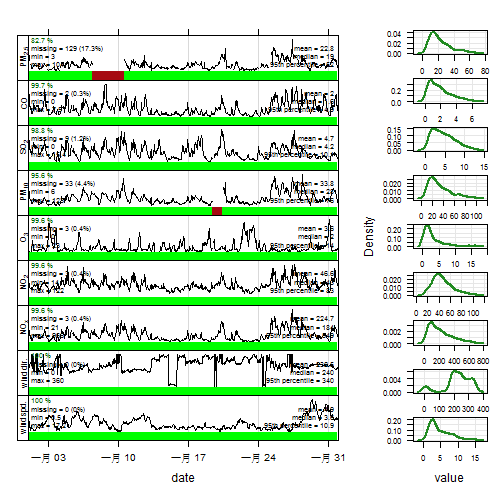
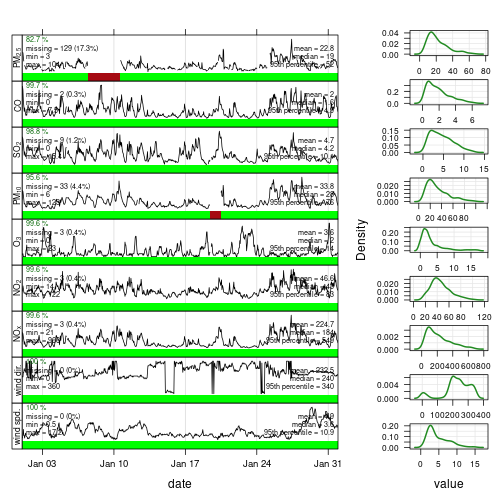
update linux version R script

diff --git a/taps_master/impGlabCsv.php b/taps_master/impGlabCsv.php
@@ -118,31 +118,63 @@ if (isset($_POST["import"])) {
 					$compound = $value;
 				}
 				if (strpos ($key,'MDL (ppbv)') !== false){
-					$mdl_ppbv = $value;
+				        if(empty($value)){
+						$mdl_ppbv = '0.00';
+					}else{
+						$mdl_ppbv = str_replace('<', '', $value);
+					}
 				}
-				if (strpos ($key,'MDL (?g/m3)') !== false){
-					$mdl_g_m3 = $value;
+				if (strpos ($key,'MDL (?g/m3)') !== false){					
+					if(empty($value)){
+						$mdl_g_m3 = '0.00';
+					}else{
+						$mdl_g_m3 = str_replace('<', '', $value);
+					}
 				}
 				if (strpos ($key,'PQL (ppbv)') !== false){
-					$pql_ppbv = $value;
+					if(empty($value)){
+						$pql_ppbv = '0.00';
+					}else{
+						$pql_ppbv = str_replace('<', '', $value);
+					}
 				}
 				if (strpos ($key,'PQL (?g/m3)') !== false){
-					$pql_g_m3 = $value;
+					if(empty($value)){
+						$pql_g_m3 = '0.00';
+					}else{
+						$pql_g_m3 = str_replace('<', '', $value);
+					}
 				}
 				if (strpos ($key,'CONC (ppbv)') !== false){
-					$conc_ppbv = $value;
+					if(empty($value)){
+						$conc_ppbv = '0.00';
+					}else{
+						$conc_ppbv = str_replace('<', '', $value);
+					}
 				}
 				if (strpos ($key,'CONC (?g/m3)') !== false){
-					$conc_g_m3 = $value;
+					if(empty($value)){
+						$conc_g_m3 = '0.00';
+					}else{
+						$conc_g_m3 = str_replace('<', '', $value);
+					}
 				}
 				if (strpos ($key,'SAMPMTHD') !== false){
 					$sampMthd = $value;
 				}
 				if (strpos ($key,'SAMPLER') !== false){
-					$sampler = $value;
+					if(empty($value)){
+						$sampler = '0';
+					}else{
+						$sampler = $value;
+					}
 				}
 				if (strpos ($key,'DETECTOR') !== false){
-					$detector = $value;
+					if(empty($value)){
+						$detector = '0';
+					}else{
+						$detector = $value;
+					}
 				}
 				if (strpos ($key,'REMFLG1') !== false){
 					$remflg1 = $value;
@@ -216,7 +248,7 @@ if (isset($_POST["import"])) {
 				//echo $in1;
 
 				$res=mysqli_query($dbc, $in1); /* or trigger_error("Query Failed! SQL: $in1 - Error: ".mysqli_error($dbc), E_USER_ERROR);*/
-//				print "in1 = ".$in1;
+				//print "in1 = ".$in1;
 							
 				if (! empty($res)) {
 					$r_in++;

diff --git a/taps_master/genSummaryPlot.php b/taps_master/genSummaryPlot.php
@@ -18,8 +18,27 @@ require_once "header2.php";
             $number = $_POST['number'];
 
             $var = rand();
-            exec('C:\\"Program Files"\\R\\R-4.2.0\\bin\\Rscript.exe C:\xampp\htdocs\taps\rscript\Rscript.R '.$number);
-            echo "<img src='temp.png?$var'> ";
+			try {
+				shell_exec('Rscript ../taps/rscript/Rscript.R '. $number);
+				echo "<img src='../taps/rscript/temp.png?$var'> ";	
+
+				exec('Rscript ../taps/rscript/Graph.R ');
+				echo "<img src='../taps/rscript/graph.png?$var'> ";
+				
+				exec('Rscript ../taps/rscript/Openair.R ');
+				echo "<img src='../taps/rscript/summaryPlot.png?$var'> ";
+
+				exec('Rscript ../taps/rscript/Openair.R ');
+				echo "<img src='../taps/rscript/summaryPlotFromCsv.png?$var'> ";
+
+				exec('Rscript ../taps/rscript/Openair.R ');
+				echo "<img src='../taps/rscript/scatterPlot.png?$var'> ";				
+			}catch(Exception $e) {
+			  echo 'Message: ' .$e->getMessage();
+			}
+
+            /*shell_exec('Rscript ../taps/rscript/Rscript.R '. $number);
+            echo "<img src='../taps/rscript/temp.png?$var'> ";
 
             exec('C:\\"Program Files"\\R\\R-4.2.0\\bin\\Rscript.exe C:\xampp\htdocs\taps\rscript\Openair.R ');
             echo "<img src='summaryPlot.png?$var'> ";
@@ -28,7 +47,7 @@ require_once "header2.php";
             echo "<img src='summaryPlotFromCsv.png?$var'> ";
 
             exec('C:\\"Program Files"\\R\\R-4.2.0\\bin\\Rscript.exe C:\xampp\htdocs\taps\rscript\Openair.R ');
-            echo "<img src='scatterPlot.png?$var'> ";
+            echo "<img src='scatterPlot.png?$var'> ";*/
         }
         ?>        
     </body>

diff --git a/taps_master/rscript_bak/genSummaryPlot.php b/taps_master/rscript_bak/genSummaryPlot.php
@@ -1,0 +1,34 @@
+<html>
+    <head>
+        <meta charset="utf-8" />
+
+        <title>Integrating PHP & R</title>
+    </head>
+    <body>
+        <form method="POST" ACTION="">
+            <input type="text" name="number">
+            <input type="submit" value="submit">            
+        </form>
+
+
+        <?php
+        if(isset($_POST['number'])){
+            $number = $_POST['number'];
+
+            $var = rand();
+            exec('C:\\"Program Files"\\R\\R-4.2.0\\bin\\Rscript.exe C:\xampp\htdocs\rProject\Rscript.R '.$number);
+            echo "<img src='temp.png?$var'> ";
+
+            exec('C:\\"Program Files"\\R\\R-4.2.0\\bin\\Rscript.exe C:\xampp\htdocs\rProject\Openair.R ');
+            echo "<img src='summaryPlot.png?$var'> ";
+
+            exec('C:\\"Program Files"\\R\\R-4.2.0\\bin\\Rscript.exe C:\xampp\htdocs\rProject\Openair.R ');
+            echo "<img src='summaryPlotFromCsv.png?$var'> ";
+
+            exec('C:\\"Program Files"\\R\\R-4.2.0\\bin\\Rscript.exe C:\xampp\htdocs\rProject\Openair.R ');
+            echo "<img src='scatterPlot.png?$var'> ";
+        }
+        ?>
+        
+    </body>
+</html>

diff --git a/taps_master/header2.php b/taps_master/header2.php
@@ -193,7 +193,8 @@ print '<html>
 							<!--a href="showGlabTemp.php">Show All</a>
 							<a href="impGlab.php">Import Glab</a-->
 							<a href="showGlabSample.php">Show All</a>
-							<a href="impGlabCsv.php">Import Glab Csv</a>
+							<a href="impGlabCsv.php">Import Voc Csv</a>
+							<a href="impPahCsv.php">Import Pah Csv</a>
 							<!--a href="updateGlabTemp.php">Update Glab</a> 
 							<a href="delGlabTemp.php">Delete all record</a>
 							<a href="delSingleGlabTemp.php">Delete single record</a-->
